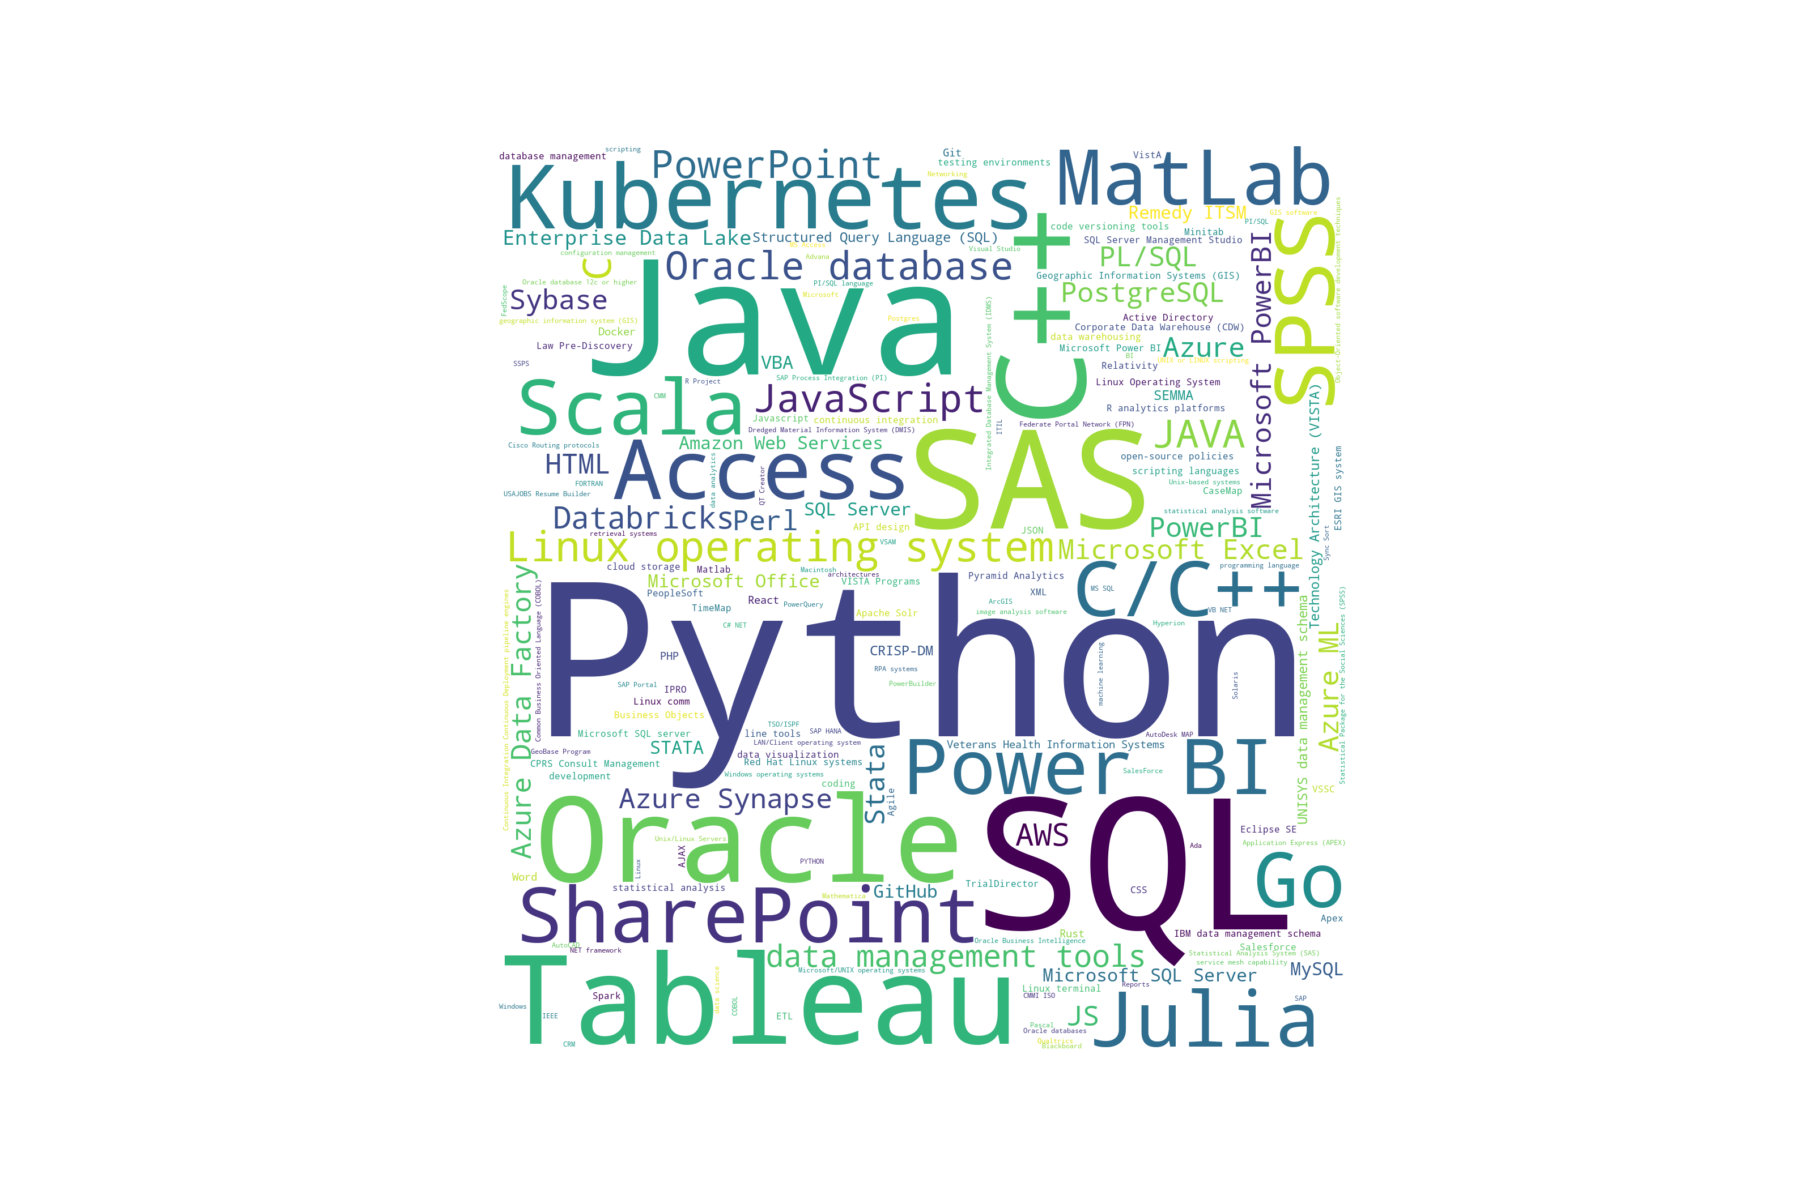
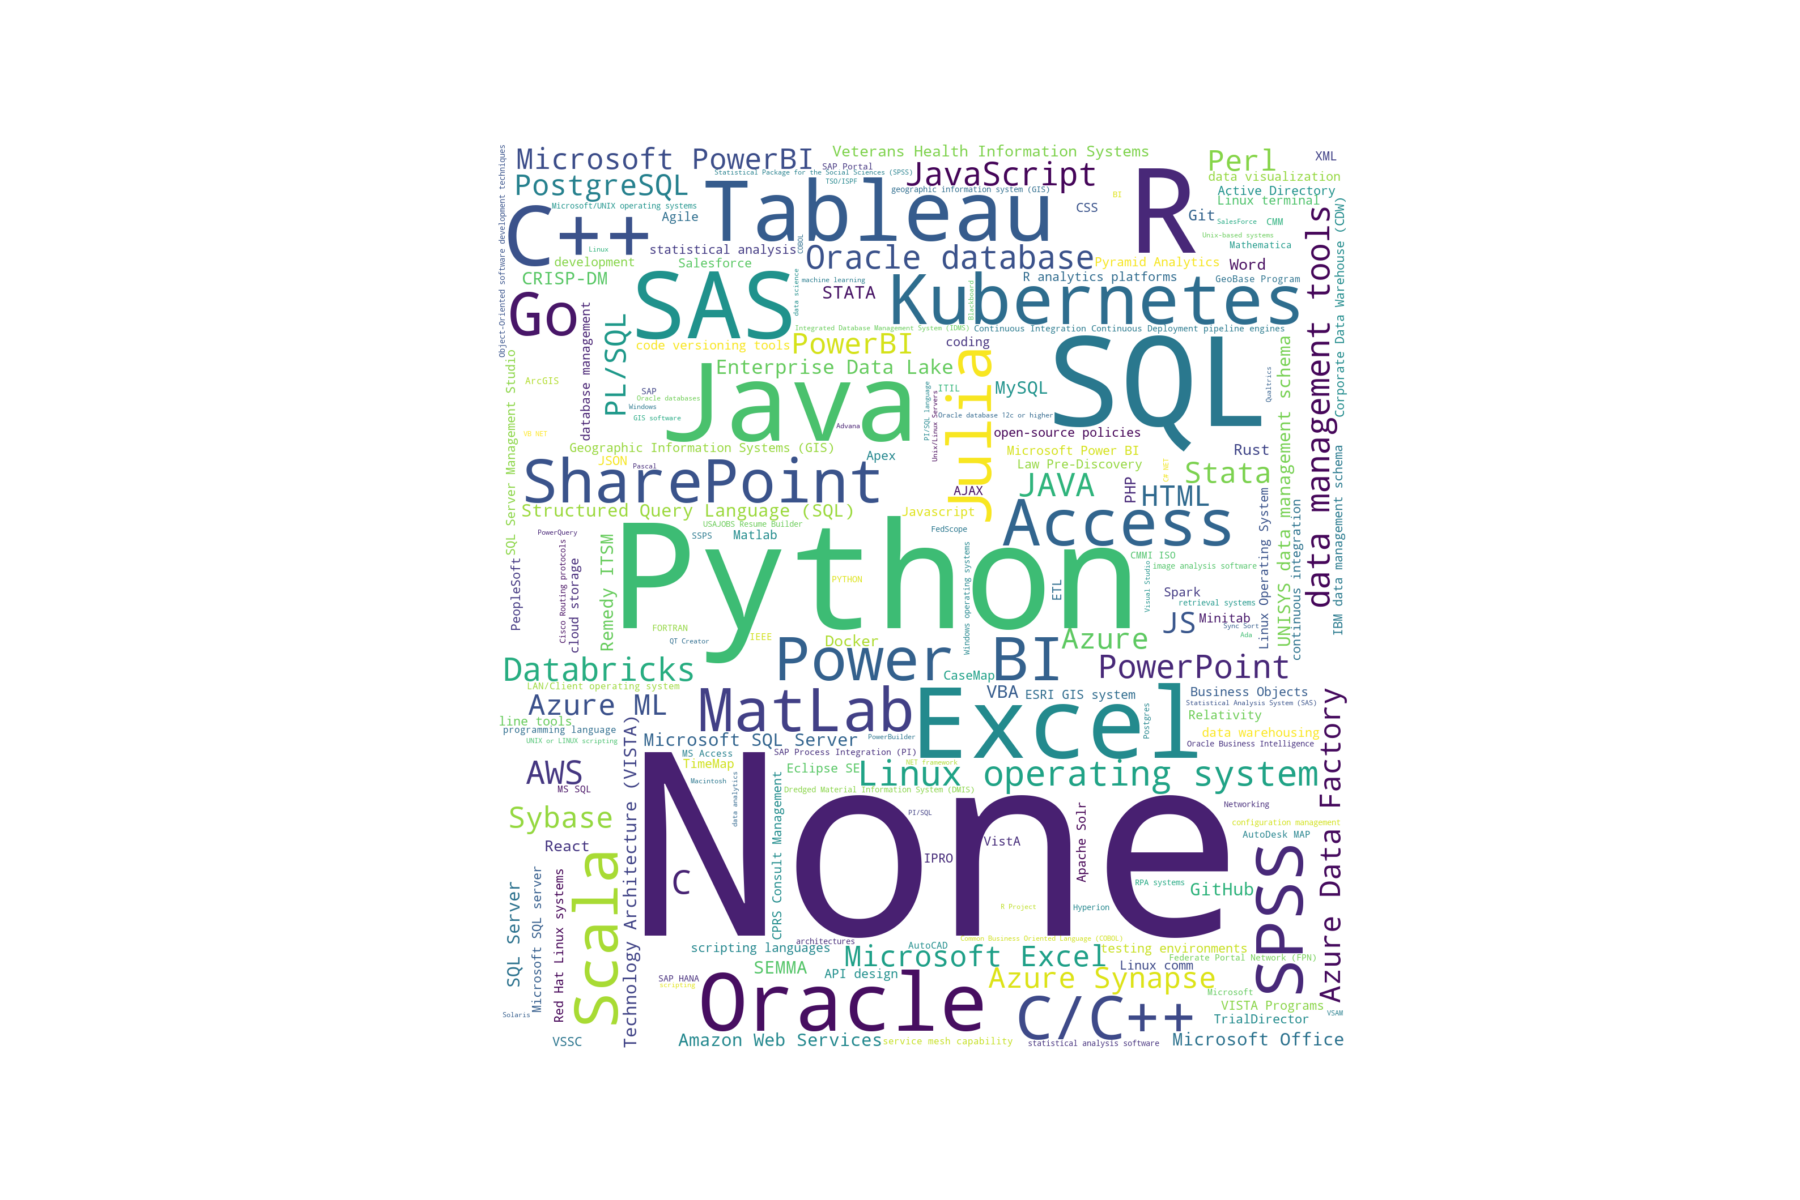
-now printing some of the #s in the post

Changed region(s): [[0.28, 0.1233, 0.7467, 0.8942]]

diff --git a/analyze.py b/analyze.py
@@ -59,7 +59,7 @@ def normalize_string(s):
 def strings_in_info(df):
     def check_strings(row):
         normalized_info = normalize_string(row['info'])
-        normalized_string_list = [normalize_string(s) for s in row['more_clean']]
+        normalized_string_list = [normalize_string(s) for s in row['named_entitites']]
 
         # Get the strings in the list that are not present in the 'info' column
         missing_strings = [s for s in normalized_string_list if s not in normalized_info]
@@ -75,8 +75,8 @@ def strings_in_info(df):
 
 def count_items(df):
     counter = Counter()
-    for row in df['more_clean']:
-        counter.update([s for s in row if (s != '') & (s != "R") & (s != "Excel")])
+    for row in df['named_entitites']:
+        counter.update([s for s in row])
     return(counter)
 
 
@@ -127,30 +127,30 @@ def main():
 
     df['clean_named_entities'] = df['named_entities'].apply(clean_initial_string)
     df['clean_named_entities_list'] = df['clean_named_entities'].str.split(",")
-    df['more_clean'] = df['clean_named_entities_list'].apply(process_strings)
+    df['named_entitites'] = df['clean_named_entities_list'].apply(process_strings)
 
-    df['more_clean'] = df['more_clean'].apply(remove_duplicates)
+    df['named_entitites'] = df['named_entitites'].apply(remove_duplicates)
     df = strings_in_info(df)
 
     counter = count_items(df)
-    top_5 = [item[0] for item in counter.most_common(5)]
+    top_8 = [item[0] for item in counter.most_common(8)]
 
-    df['missing_items'] = df['more_clean'].apply(lambda row: find_missing_substrings(top_5, row))
+    df['missing_items'] = df['named_entitites'].apply(lambda row: find_missing_substrings(top_8, row))
     df['actually_missing'] = df.apply(lambda row: find_actually_missing(row['missing_items'], row['info']), axis=1)
 
     # Drop the intermediate columns
     df.drop(columns=['clean_named_entities', 'clean_named_entities_list', 'missing_strings', 'missing_items', 'actually_missing'], inplace=True)
 
-    # Calculate the median length of the 'more_clean' list for the subset where "Python" is one of the lists of strings
-    python_subset = df[df['more_clean'].apply(lambda x: 'Python' in x)]
-    median_length = python_subset['more_clean'].apply(len).median()
-    print(f"The median length of the 'more_clean' list for the subset with 'Python': {median_length}")
+    # Calculate the median length of the 'named_entitites' list for the subset where "Python" is one of the lists of strings
+    python_subset = df[df['named_entitites'].apply(lambda x: 'Python' in x)]
+    median_length = python_subset['named_entitites'].apply(len).median()
+    print(f"The median length of the 'named_entitites' list for the subset with 'Python': {median_length}")
 
-    # Find the maximum number of strings in the 'more_clean' list and the corresponding PositionURI values
-    max_strings = df['more_clean'].apply(len).max()
-    max_strings_rows = df[df['more_clean'].apply(len) == max_strings]
+    # Find the maximum number of strings in the 'named_entitites' list and the corresponding PositionURI values
+    max_strings = df['named_entitites'].apply(len).max()
+    max_strings_rows = df[df['named_entitites'].apply(len) == max_strings]
     position_uris = max_strings_rows['PositionURI'].tolist()
-    print(f"The maximum number of strings in the 'more_clean' list is {max_strings}.")
+    print(f"The maximum number of strings in the 'named_entitites' list is {max_strings}.")
     print(f"The PositionURI values for rows with the maximum number of strings: {', '.join(position_uris)}")
 
     save_wordcloud(counter)

diff --git a/named_entity.py b/named_entity.py
@@ -90,7 +90,4 @@ def main():
 if __name__ == "__main__":
     cleaned_for_app=main()
     
-blanks=cleaned_for_app.loc[cleaned_for_app['named_entities']==""]
-print(len(blanks))
 
-ways_of_saying_none=[""]
